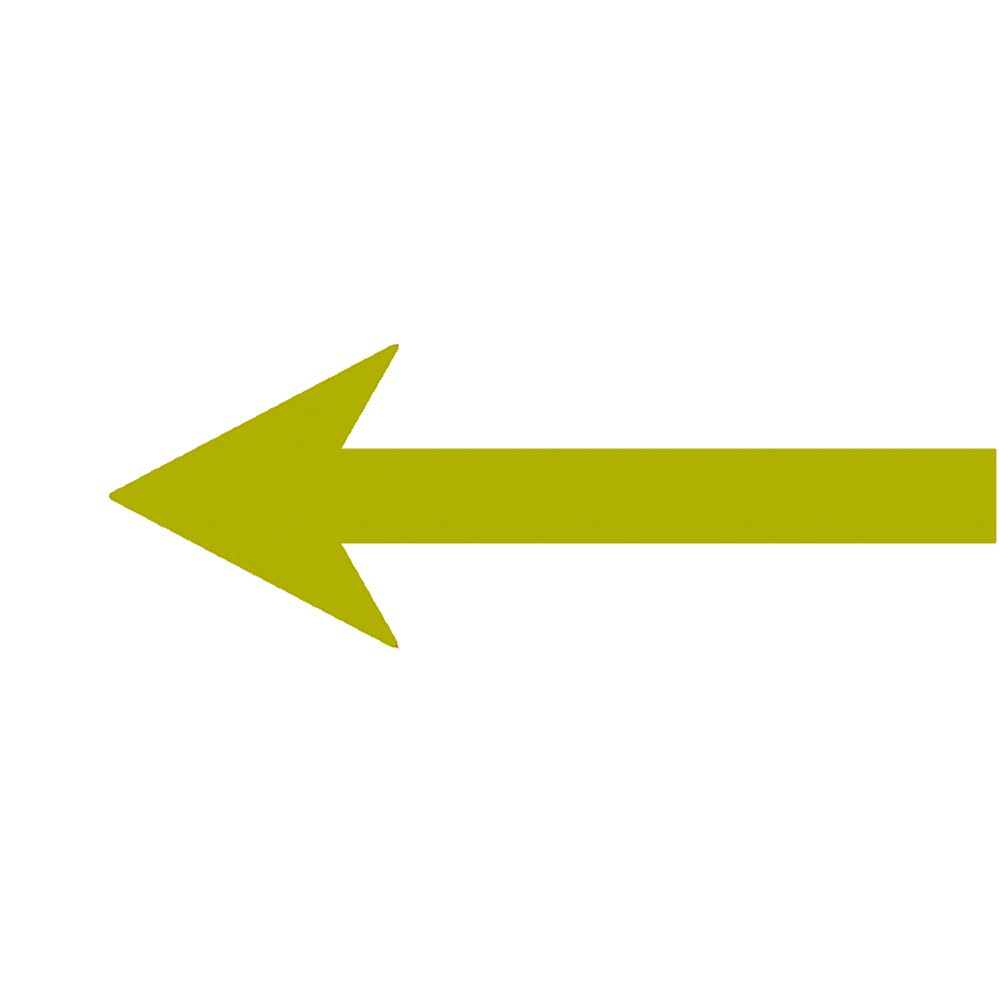
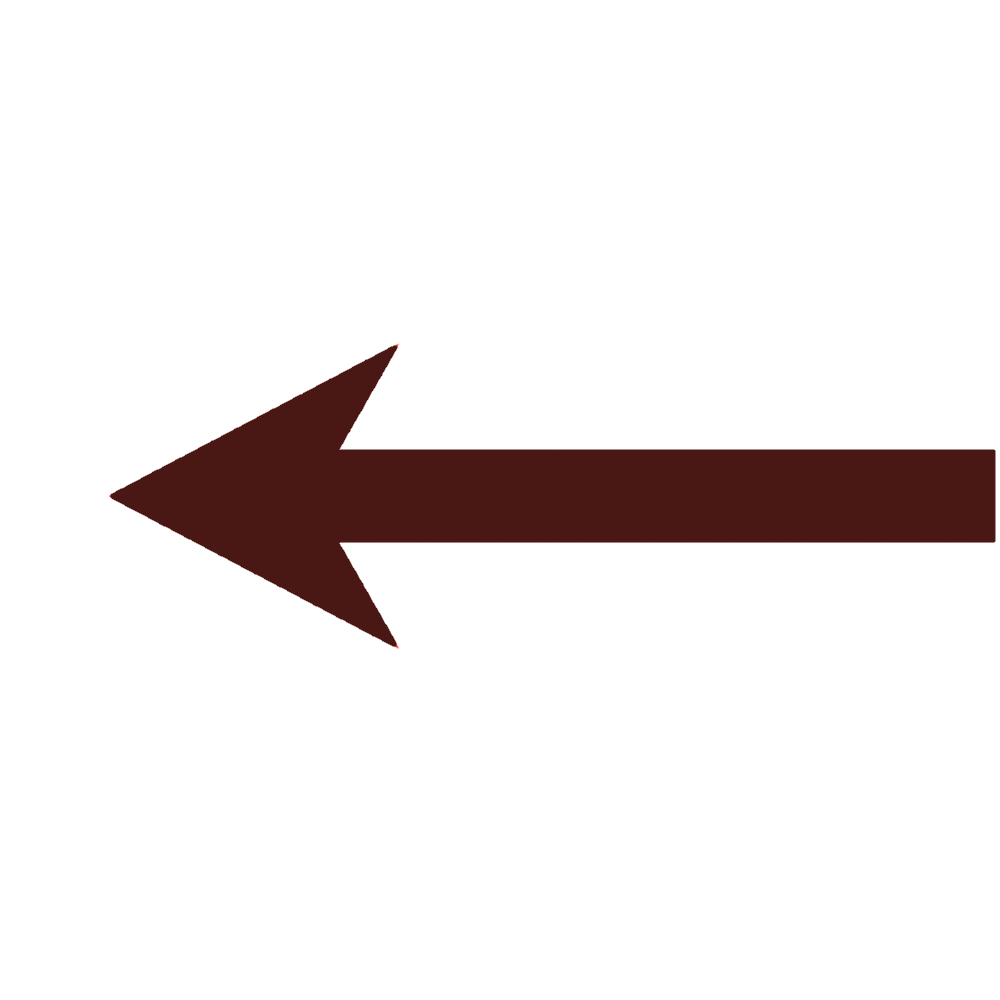
головоломки

Changed region(s): [[0.093, 0.341, 1.0, 0.651]]

diff --git a/code_window.py b/code_window.py
@@ -1,3 +1,4 @@
+# -*- coding: utf-8 -*-
 import pygame as pg
 import pygame_gui
 from settings import *
@@ -6,15 +7,28 @@ from settings import *
 class CodeWindow:
     def __init__(self, game, code_controller):
         self.running = False
+        self.game = game
         self.manager = pygame_gui.UIManager(screen, 'resources/theme.json')
         self.text_field = pygame_gui.elements.UITextEntryBox(relative_rect=pg.Rect((470, 300, 500, 70)),
                                                              manager=self.manager)
         self.submit_btn = pygame_gui.elements.UIButton(relative_rect=pg.Rect((470, 400, 500, 70)),
                                                        text='Try',
                                                        manager=self.manager)
-        self.text_result = pygame_gui.elements.UILabel(relative_rect=pg.Rect((470, 500, 500, 70)),
+        self.exit_btn = pygame_gui.elements.UIButton(relative_rect=pg.Rect((470, 500, 500, 70)),
+                                                     text='<-',
+                                                     manager=self.manager)
+        self.text_result = pygame_gui.elements.UILabel(relative_rect=pg.Rect((470, 200, 300, 70)),
                                                        manager=self.manager, text='')
-        self.start_bg = pg.image.load('resources/images/start_menu/start_background.jpg')
+        #
+        # self.text_box = pygame_gui.elements.UILabel(relative_rect=pg.Rect(440, 100, 500, 70),
+        #                                             manager=self.manager, text='enter the right code')
+        if self.game.num_level == 0:
+            self.start_bg = pg.image.load('resources/images/start_menu/subway_bg.jpg')
+        elif self.game.num_level == 1:
+            self.start_bg = pg.image.load('resources/images/start_menu/city_bg.jpg')
+        else:
+            self.start_bg = pg.image.load('resources/images/start_menu/start_background.jpg')
+
         self.start_bg = pg.transform.scale(self.start_bg, screen)
         self.clock = pg.time.Clock()
         self.game = game
@@ -32,10 +46,14 @@ class CodeWindow:
                         code = self.text_field.get_text()
                         self.text_field.unfocus()
                         if self.code_controller.check_code(code):
-                            self.running = False
+                             self.running = False
                         else:
                             self.text_result.set_active_effect(pygame_gui.TEXT_EFFECT_FADE_IN)
-                            self.text_result.set_text("WRONG!!!")
+                            self.text_result.set_text("wrong code!!")
+                    if (event.type == pygame_gui.UI_BUTTON_PRESSED and
+                            hasattr(event, 'ui_element') and event.ui_element == self.exit_btn):
+                        self.running = False
+
                 if self.running:
                     self.manager.process_events(event)
             if self.running:

diff --git a/player.py b/player.py
@@ -83,21 +83,21 @@ class Player:
                     if not self.jump:
                         self.vertical_velocity = -hight_jump
                         self.jump = True
-                if event.key == pg.K_e and self.cont:
-                    if self.game.num_level < len(self.game.levels) - 1:
-                        if self.game.num_level == 1:
-                            self.brumbrum(screen)
-                            self.change_level(screen, 'WHERE ARE YOU?')
-                        elif self.game.num_level == 2:
-                            self.change_level(screen, '! ! ! ! !  RUN  ! ! ! ! !')
-                        else:
-                            self.change_level(screen, 'WHERE ARE YOU?')
-                        self.game.num_level += 1
-                        self.game.new_game()
-                    else:
-                        pass # конец игры
+                # if event.key == pg.K_e and self.cont:
+                #     if self.game.num_level < len(self.game.levels) - 1:
+                #         if self.game.num_level == 1:
+                #             self.brumbrum(screen)
+                #             self.change_level(screen, 'WHERE ARE YOU?')
+                #         elif self.game.num_level == 2:
+                #             self.change_level(screen, '! ! ! ! !  RUN  ! ! ! ! !')
+                #         else:
+                #             self.change_level(screen, 'WHERE ARE YOU?')
+                #         self.game.num_level += 1
+                #         self.game.new_gxame()
+                #     else:
+                #         pass # конец игры
 
-                if event.key == pg.K_p and self.cont:
+                if event.key == pg.K_e and self.cont:
                     if self.game.num_level == 0 or self.game.num_level == 1 or self.game.num_level == 2:
                          self.code_window.run_start_menu()
 

diff --git a/subway_braintest.py b/subway_braintest.py
@@ -1,21 +1,28 @@
 from settings import *
 
 
-class Subway_Braintest():
+class Subway_Braintest:
     def __init__(self, game, sprites):
         self.game = game
         self.sprites = sprites
+        self.len_sprites = len(sprites)
+
 
     def draw(self, screen):
-        sprite_index = self.game.num_level - 1
-        if sprite_index < 0 or sprite_index > len(self.sprites) - 1:
+        if self.game.num_level != 0:
             return
-        sprite = self.sprites[sprite_index]
-        screen.blit(sprite, (self.game.layout_width -
-                             self.game.player.x - width, 100))
-        screen.blit(sprite, (self.game.layout_width -
-                             self.game.player.x - width - 2000, 100))
-        screen.blit(sprite, (self.game.layout_width -
-                             self.game.player.x - width - 4000, 100))
-        screen.blit(sprite, (self.game.layout_width -
-                             self.game.player.x - width - 6000, 100))
+
+        # screen.blit(self.sprites[0], (self.game.layout_width -
+        #                               self.game.player.x - width - 2000, 100))
+        # screen.blit(self.sprites[1], (self.game.layout_width -
+        #                               self.game.player.x - width - 5000, 100))
+        # screen.blit(self.sprites[2], (self.game.layout_width -
+        #                               self.game.player.x - width - 8000, 100))
+        # screen.blit(self.sprites[3], (self.game.layout_width -
+        #                               self.game.player.x - width - 11000, 100))
+        distance = 2000
+        for i in range(self.len_sprites):
+            screen.blit(self.sprites[i], (self.game.layout_width -
+                                          self.game.player.x - width - distance, 100))
+            distance += 3000
+

diff --git a/main.py b/main.py
@@ -2,6 +2,7 @@
 from pixel_map import Pixel_map
 from subway_braintest import Subway_Braintest
 from city_braintest import City_Braintest
+from forest_braintest import Forest_Braintest
 from settings import screen, width, running_gui_manager
 import pygame as pg
 from map import Map
@@ -10,7 +11,7 @@ from level import Level
 import colors
 from sprites import Sprites
 from random import randrange
-from screensavers import *
+from startscreensaver import *
 import sys
 
 class Game:
@@ -18,8 +19,8 @@ class Game:
         pg.init()
         self.screen = pg.display.set_mode(screen)
         self.running = False
-        self.num_level = 1 # !!!!!!!!!!!!!!!!
-        pg.event.set_grab(True)
+        self.num_level = 0 # !!!!!!!!!!!!!!!!
+        #pg.event.set_grab(True)
         self.new_game()
         self.clock = pg.time.Clock()
         MOVE_DOWN_DELAY = 500
@@ -37,7 +38,8 @@ class Game:
         self.map = Map(self, self.levels[self.num_level].map_path)
         self.player = Player(self)
         self.subway_braintest = Subway_Braintest(self, self.sprites.arrows)
-        self.city_braintest = City_Braintest(self, self.sprites.puzzle2)
+        self.city_braintest = City_Braintest(self, self.sprites.city_puzzle)
+        self.forest_braintest = Forest_Braintest(self, self.sprites.forest_puzzle)
         self.layout_width = (len(self.map.map[0]) * self.levels[self.num_level].tile_x)
         self.layout_height = (len(self.map.map) * self.levels[self.num_level].tile_y)
 
@@ -51,6 +53,7 @@ class Game:
         self.map.draw_map(self.screen)
         self.subway_braintest.draw(self.screen)
         self.city_braintest.draw(self.screen)
+        self.forest_braintest.draw(self.screen)
         self.player.draw_player(self.screen)
         pg.display.update()
 

diff --git a/sprites.py b/sprites.py
@@ -35,11 +35,13 @@ class Sprites:
                                         self.game.levels[self.game.num_level].player_size[1] -
                                         self.car.get_size()[1]), (self.car, 0), (self.ept, self.game.levels[-1].y)]
 
-        self.puzzle2 = pg.image.load('resources/images/braintests/puzzle2.png')
-        self.puzzle2 = pg.transform.scale(self.puzzle2, (200, 200))
+        self.city_puzzle = pg.image.load('resources/images/braintests/city_puzzle.png')
+        self.city_puzzle = pg.transform.scale(self.city_puzzle, (170, 200))
 
-        self.arrow = pg.image.load('resources/images/braintests/arrow.png')
-        self.arrow = pg.transform.scale(self.arrow, (width // 6, height // 3))
+        self.forest_puzzle = pg.image.load('resources/images/braintests/forest_puzzle.png')
+        self.forest_puzzle = pg.transform.scale(self.forest_puzzle, (170, 170))
+
+
 
         self.walls = []
         for i in range(len([name for name in os.listdir('resources/images/walls')
@@ -51,6 +53,6 @@ class Sprites:
         self.arrows = []
         for i in range(len([name for name in os.listdir('resources/images/braintests/arrows')
                             if os.path.isfile(os.path.join('resources/images/braintests/arrows', name))])):
-             img = pg.image.load(f'resources/images/braintests/arrows/{i + 1}.png')
+             img = pg.image.load(f'resources/images/braintests/arrows/{i}.png')
              img = pg.transform.scale(img, ((width // 6, height // 3)))
              self.arrows.append(img)

diff --git a/startscreensaver.py b/startscreensaver.py
@@ -8,6 +8,7 @@ class Screensaver:
         self.screen = pg.display.set_mode(screen)
         self.running_gui_manager = running_gui_manager
         self.manager = pygame_gui.UIManager(screen, 'resources/theme.json')
+        self.interval = 100
         self.start_btn = pygame_gui.elements.UIButton(relative_rect=pg.Rect((470, 300, 500, 70)),
                                                       text='Start',
                                                       manager=self.manager)
@@ -36,8 +37,8 @@ class Screensaver:
                     if hasattr(event, 'ui_element') and event.ui_element == self.start_btn:
                         self.running_gui_manager = False
                         self.game.run()
-                    elif hasattr(event, 'ui_element') and event.ui_element == self.settings_btn:
-                        pass
+                    # elif hasattr(event, 'ui_element') and event.ui_element == self.settings_btn:
+                    #     pass
                 if self.running_gui_manager:
                     self.manager.process_events(event)
             if self.running_gui_manager:

diff --git a/code_controller.py b/code_controller.py
@@ -1,18 +1,17 @@
+
 class Code_controller:
-    right_codes = [
-        'code1',
-        'code2',
-        'code3',
-        'code4',
-    ]
+
     def __init__(self, player):
         self.player = player
+        self.right_codes = ['4312', '1', 'ьщщт']
 
     def is_checked(self, code):
+        code = code.rstrip()
         level = self.player.game.num_level
-        return code == self.right_codes[level - 1]
+        return code == self.right_codes[level]
 
     def check_code(self, code):
+        code = code.rstrip()
         level = self.player.game.num_level
         levels_count = len(self.player.game.levels)
         screen = self.player.game.screen

diff --git a/forest_braintest.py b/forest_braintest.py
@@ -1,13 +1,13 @@
 from settings import *
 
 
-class City_Braintest():
+class Forest_Braintest:
     def __init__(self, game, sprite):
         self.game = game
         self.sprite = sprite
 
     def draw(self, screen):
-        if self.game.num_level != 1:
+        if self.game.num_level != 2:
             return
         screen.blit(self.sprite, (self.game.layout_width -
-                                    self.game.player.x - width - 900, 100))
+                                    self.game.player.x - 6000, 30))

diff --git a/settings.py b/settings.py
@@ -1,6 +1,8 @@
 from screeninfo import get_monitors
 
 screen = width, height = get_monitors()[0].width, get_monitors()[0].height
+mid_width = width // 2
+
 
 speed = 30
 
